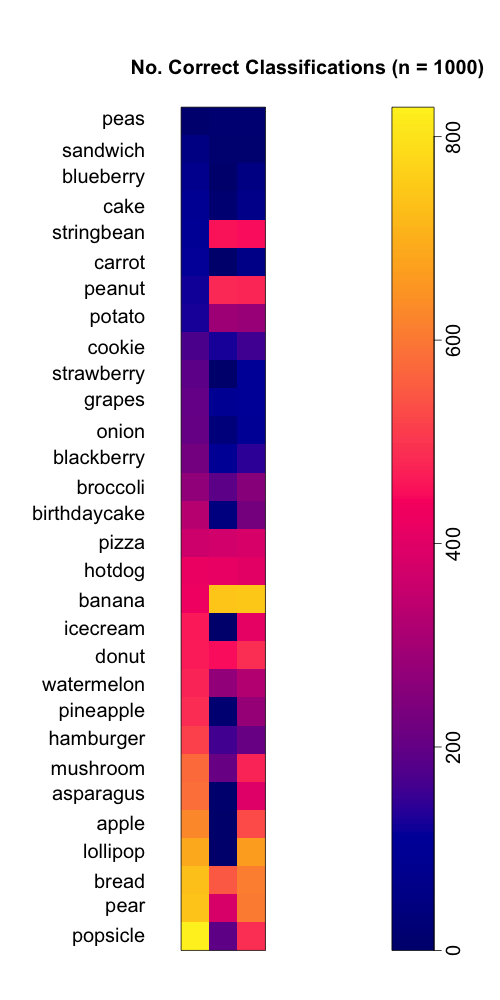
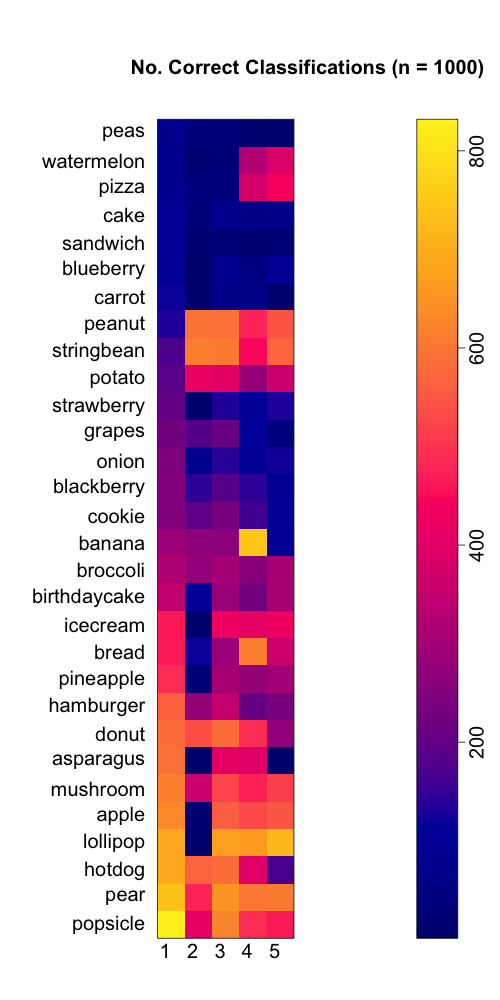
edited model 1

diff --git a/docs/Model_1.html b/docs/Model_1.html
@@ -253,9 +253,9 @@ $(document).ready(function () {
 <li><p><strong>The rotation model with clusters.</strong> We add kernels for each subclass that we generated by clustering. We in addition to comparing the raw data to the raw kernels and the rotated data to the rotated kernels, we compare the rotated data to the cluster-generated kernels.</p></li>
 <li><p><strong>The cherry picked model</strong> For each food class, we pick the kernel which we think best represents the data (raw, rotated, or rotated and clustered). We only compare a raw doodle to the raw kernels we have chosen and the rotated doodle to the rotated kernels we have chosen.</p></li>
 </ol>
-<p>We were surprised that our predictions did not get any better by considering rotations, clustering, or human selection of rotated vs. raw vs. clustered kernels.</p>
-<pre class="r"><code>x &lt;- data.frame(Model = 1:5, Accuracy = c(0.35, 0.19, 0.32, 0.32, 0.27))
-knitr::kable(x, format = &quot;html&quot;)</code></pre>
+<p>We were surprised that our predictions did not get any better by considering rotations, clustering, or human selection of rotated vs. raw vs. cluster-derived kernels.</p>
+<div id="table-1-model-accuracy" class="section level5">
+<h5>Table 1: Model Accuracy</h5>
 <table>
 <thead>
 <tr>
@@ -310,6 +310,17 @@ Accuracy
 </tr>
 </tbody>
 </table>
+<p>The table above gives the accuracy for the five models. Rotating all of the images for prediction and kernel estimation reduced the overall accuracy dramatically to only 19%.</p>
+</div>
+<div id="figure-5-accuracy-by-model-and-class" class="section level5">
+<h5>Figure 5: Accuracy by Model and Class</h5>
+<p><img src="../Empirical_Kernel/Correct_Classifications.png" /><!-- --></p>
+<p>Using Figure 5, we can examine the class-specific accuracy of our 5 models. We see that the rotation fufilled its purposes for the food classes that needed it. In our exploratory data analysis, we saw that the kernels for peanuts, potatos, and string beans became much clearer when we rotated the data. Here, we see the accuracy of model 2 is better than model 1 for those classes. Additionally, we see that the accuracy for watermelon, pizza, bananas, and bread improves when we include the cluster-derived kernels in model 4. However, these improvements all seem to come at a cost–the predictions for the other classes fall.</p>
+</div>
+<div id="figure-6-comparing-model-1-vs-5" class="section level5">
+<h5>Figure 6: Comparing Model 1 vs 5</h5>
+<p><img src="../Empirical_Kernel/Classifications0.png" /><!-- --><img src="../Empirical_Kernel/Classifications4.png" /><!-- --></p>
+</div>
 </div>
 <div id="discussion-and-take-aways" class="section level2">
 <h2>Discussion and Take-Aways</h2>
